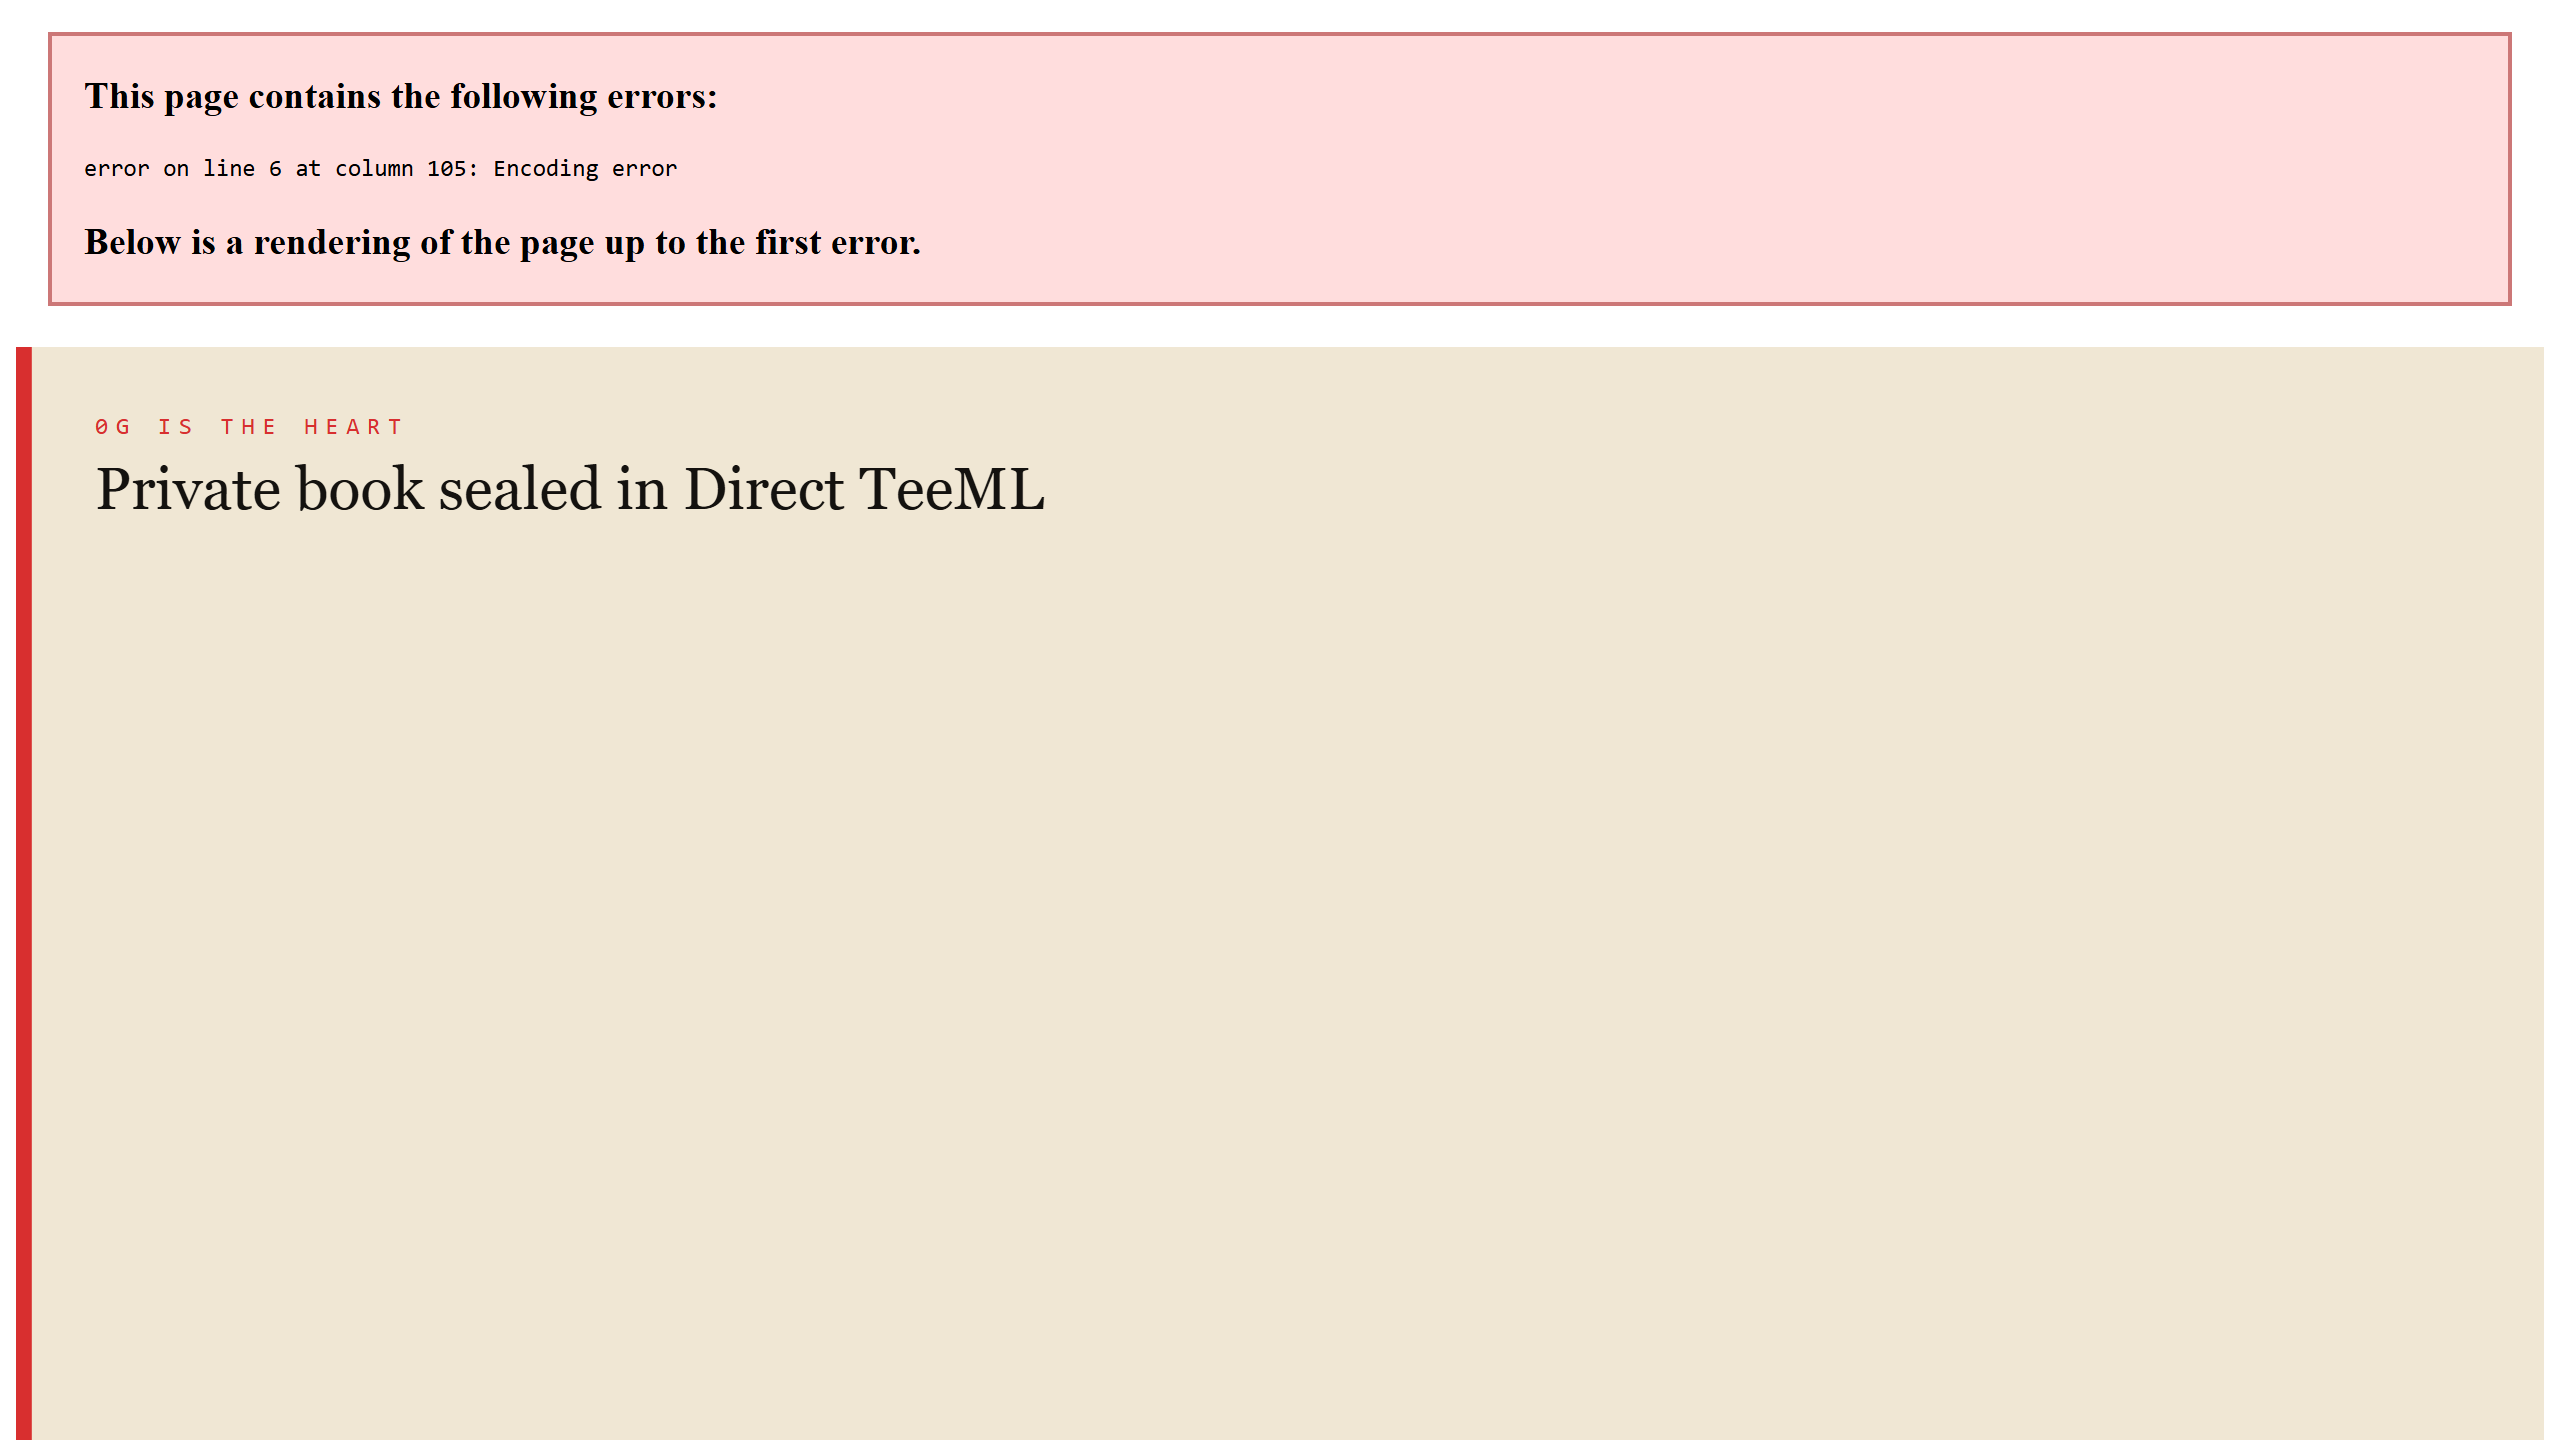
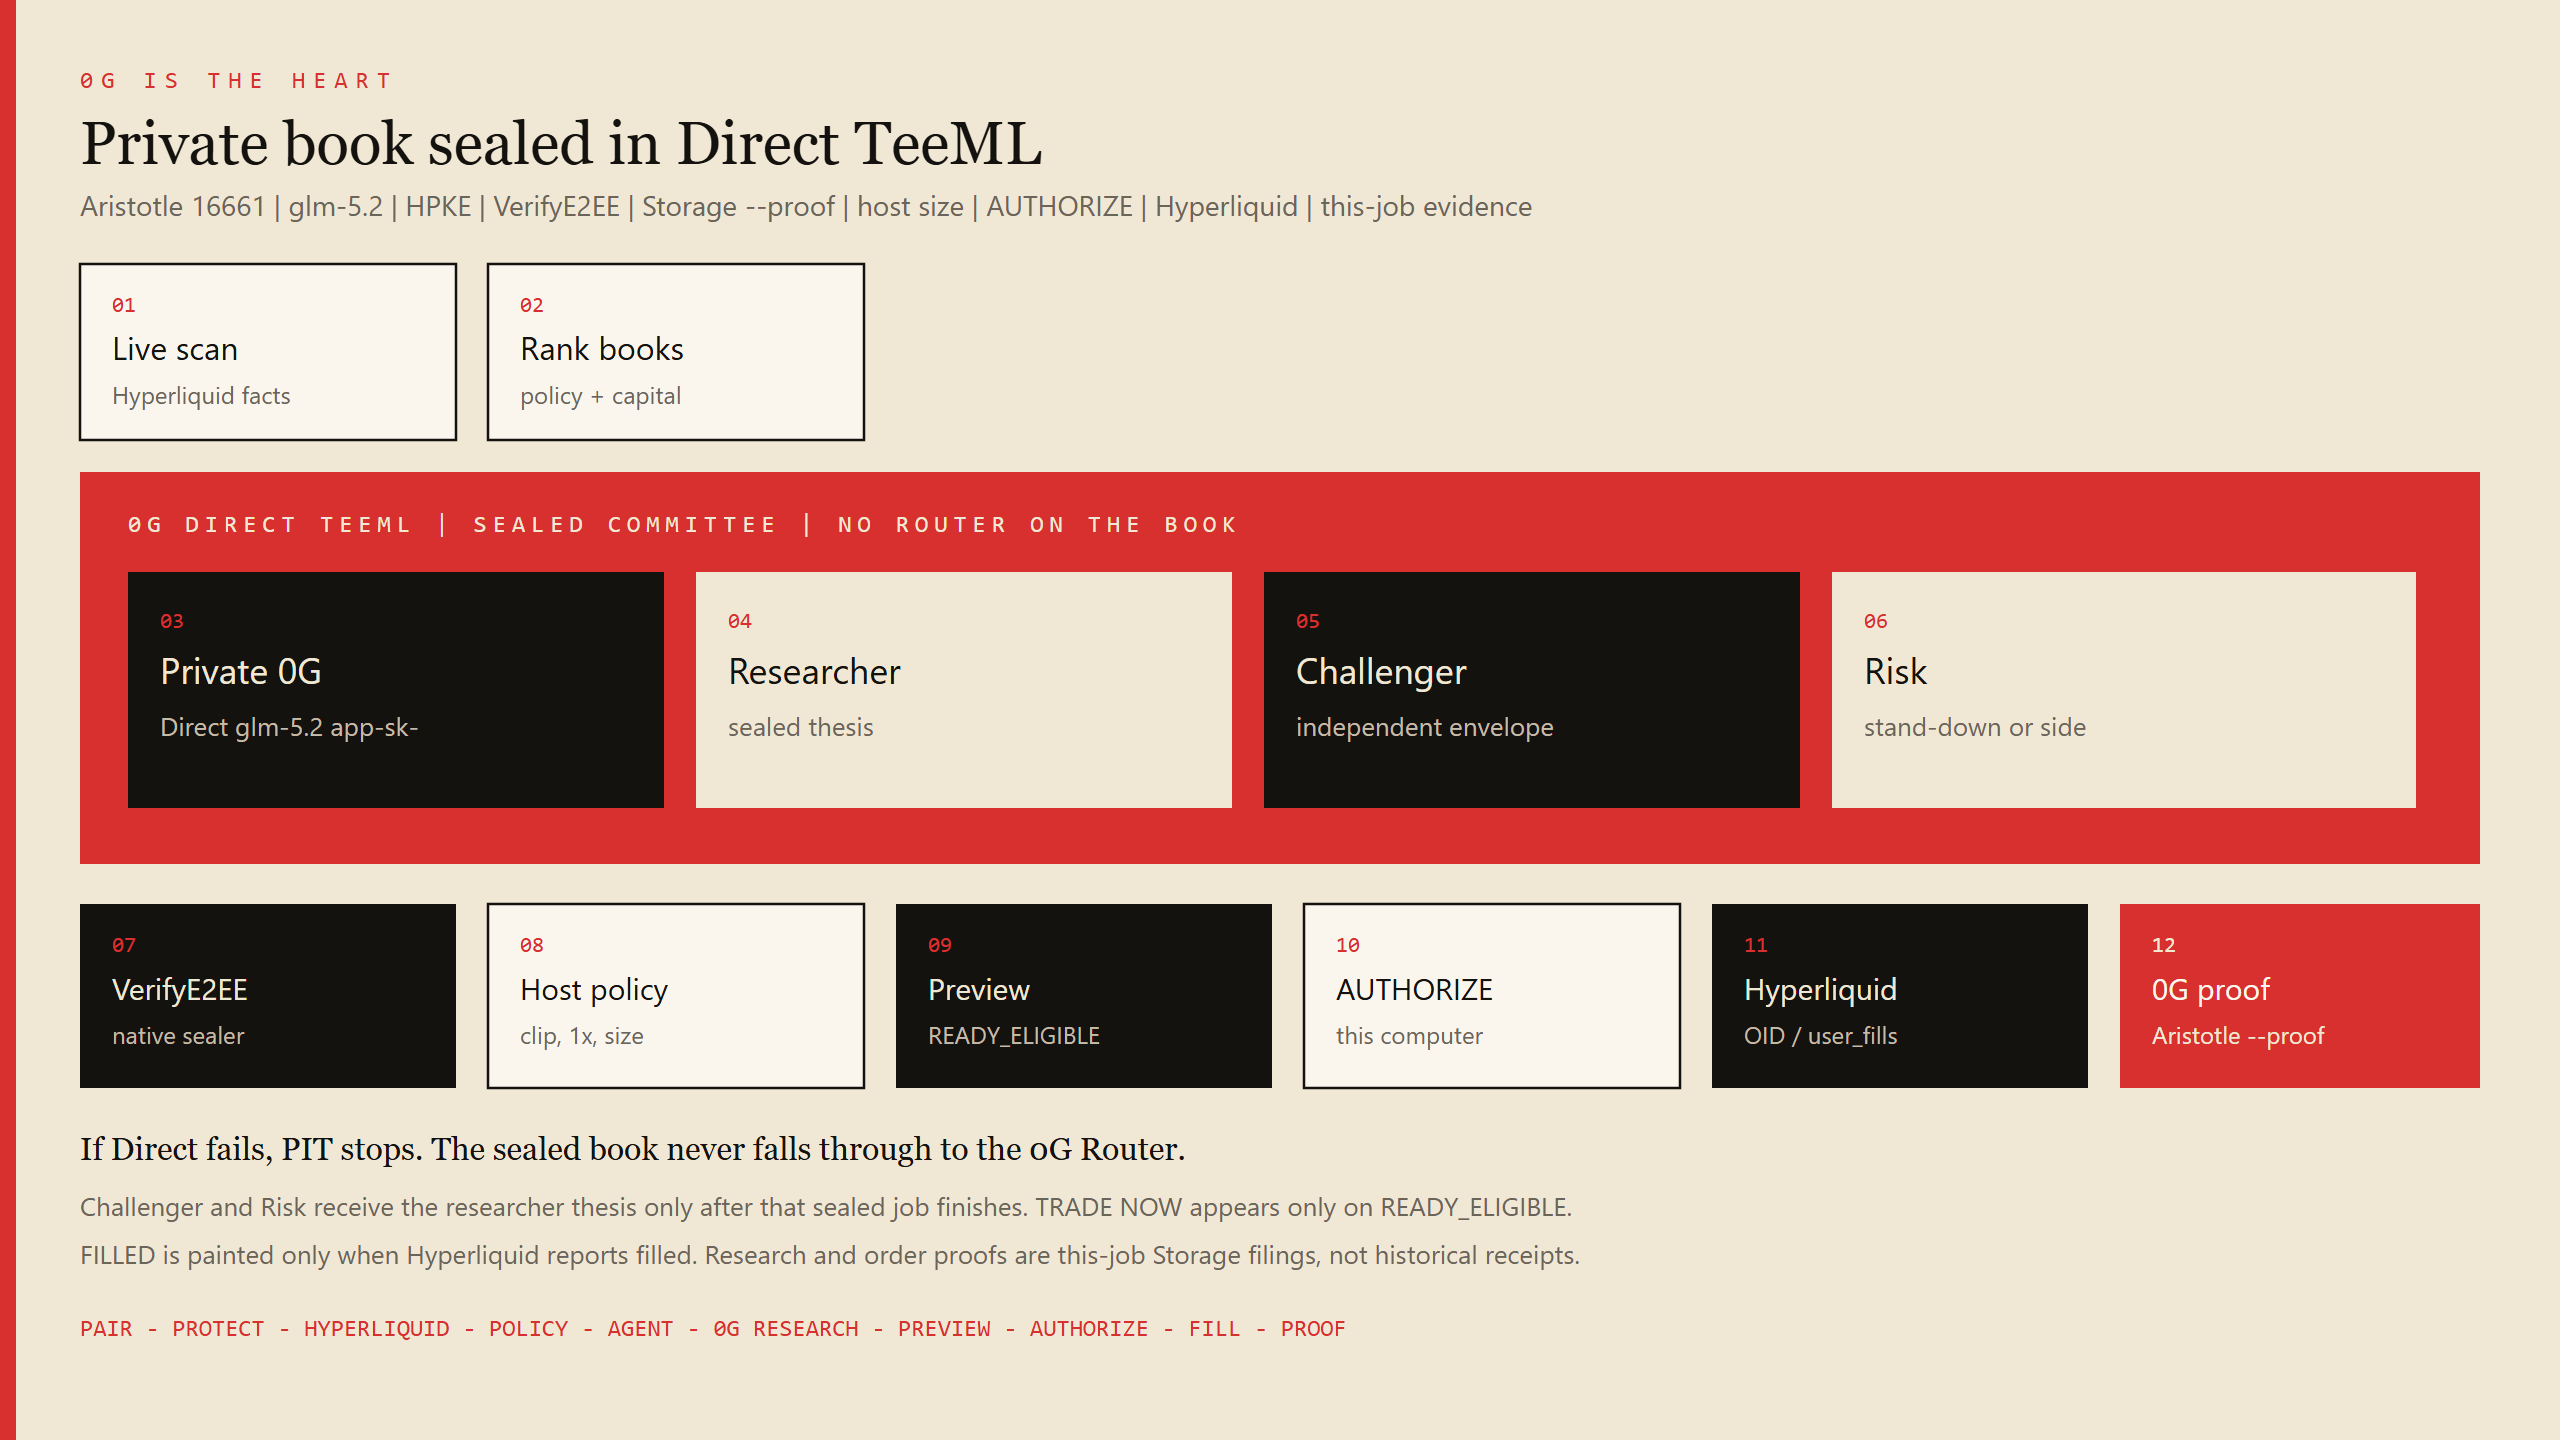
update readme.md

diff --git a/README.md b/README.md
@@ -17,7 +17,7 @@ The launch film is the live desk path, not a storyboard.
 
 Matching recorded evidence (job `4a1d45ec-8c3f-4883-a162-19739accb9cf`): HYPE OID **531667200134** FILLED, with this-job 0G research and order filings on Aristotle. PIT paints FILLED only when Hyperliquid `user_fills` reports filled.
 
-![0G is the heart](docs/diagrams/pipeline.svg)
+<img src="docs/diagrams/pipeline.png" alt="0G is the heart" width="1280" />
 
 ---
 
@@ -38,15 +38,15 @@ A trading book in a public router leaks alpha. A withdraw key empties an account
 
 **Native sealer / HPKE / VerifyE2EE.** `pit-sealer` seals the book into Direct TeeML and verifies the TEE transcript on the host against `teeSigner` `0xA46EA4FC5889AD35A1487e1Ed04dCcfa872146B9`. Provider `0x7DCFe6AEa70350C2090041524c9B4A9262DCe87D`. Serving `0x47340d900bdFec2BD393c626E12ea0656F938d84`. Ledger `0x2dE54c845Cd948B72D2e32e39586fe89607074E3`.
 
-**0G Storage `--proof`.** Object keys are `{network}/ws/{workspaceId}/...`. Flow [`0x62D4144dB0F0a6fBBaeb6296c785C71B3D57C526`](https://chainscan.0g.ai/address/0x62D4144dB0F0a6fBBaeb6296c785C71B3D57C526). Indexer [indexer-storage-turbo.0g.ai](https://indexer-storage-turbo.0g.ai). The TypeScript SDK is not used for proofs.
+**0G Storage `--proof`.** Object keys are `{network}/ws/{workspaceId}/...`. Flow [`0x62D4144dB0F0a6fBBaeb6296c785C71B3D57C526`](https://chainscan.0g.ai/address/0x62D4144dB0F0a6fBBaeb6296c785C71B3D57C526). Explorer [storagescan.0g.ai](https://storagescan.0g.ai/). Recorded storage proof [submission 211566](https://storagescan.0g.ai/submission/211566). The TypeScript SDK is not used for proofs.
 
 **Aristotle 16661.** Explorer [chainscan.0g.ai](https://chainscan.0g.ai). `PIT_NETWORK` binds 0G chain and Hyperliquid venue together (Aristotle with `api.hyperliquid.xyz`).
 
 The sealed prompt never enters Vercel, the browser bundle, MCP, or `pit-os`. TRADE NOW on desktop calls `authorizePreview("AUTHORIZE", previewHash)`. Chat, the website, MCP, and the JS SDK cannot AUTHORIZE.
 
-![Authority boundary](docs/diagrams/authority.svg)
+![Authority boundary](docs/diagrams/authority.png)
 
-![PIT end-to-end architecture](docs/diagrams/architecture.svg)
+![PIT end-to-end architecture](docs/diagrams/architecture.png)
 
 ---
 
@@ -245,7 +245,7 @@ An older Hyperliquid fill on the same account, OID `529167222216` (ETH), is hist
 
 ## 0G storage / chain proof
 
-![0G and Hyperliquid evidence](docs/diagrams/proof.svg)
+![0G and Hyperliquid evidence](docs/diagrams/proof.png)
 
 Research proof and order proof are filed to 0G Storage for **that** job via the official Go client with `--proof`. `last-research.json` is not a 0G fallback. Public `/proof` lists recorded this-desk filings. It does not run VerifyE2EE in the browser.
 
@@ -552,6 +552,7 @@ These are the latest matching research → preview → AUTHORIZE → Hyperliquid
 | Order / evidence filing | [0x8c28051bec7bebd7af3b6cc75f7aa034d67f9809f9c30eef9a6c9f84ed6c11fb](https://chainscan.0g.ai/tx/0x8c28051bec7bebd7af3b6cc75f7aa034d67f9809f9c30eef9a6c9f84ed6c11fb) |
[1 lines of base64/hex data omitted]
 | Hyperliquid OID | `531667200134` buy 0.16 HYPE @ 80.909, host reconcile `user_fills` **FILLED** |
+| 0G StorageScan | [storagescan.0g.ai](https://storagescan.0g.ai/) · proof [submission 211566](https://storagescan.0g.ai/submission/211566) |
[1 lines of base64/hex data omitted]
 | Agent | `PIT-4bbee556` `0xfc64e36babe7dfe9eb779ee3a9f2362d16881d52` |
 | Wallet | `0xbdfcee82bd42fefa58ee850b3709636a8b6b0034` |
@@ -578,7 +579,7 @@ Recorded 0G research and storage on this desk. Each job has its own filing.
 | SOL no_side | [0x7e7f85aa…](https://chainscan.0g.ai/tx/0x7e7f85aaf4aacd29129b8697cbc5de7e8f6d56745754897807a262e2d31b21ef) | — |
 | ETH job `78617f6c` | [0xdf4f8f95…](https://chainscan.0g.ai/tx/0xdf4f8f95cbee81f99402754455915635bbc3f4623861318f5fc171da631f8ae0) | — |
 
-Indexer: [indexer-storage-turbo.0g.ai](https://indexer-storage-turbo.0g.ai).
+Storage: [storagescan.0g.ai](https://storagescan.0g.ai/). Proof: [submission 211566](https://storagescan.0g.ai/submission/211566).
 
 ---
 
